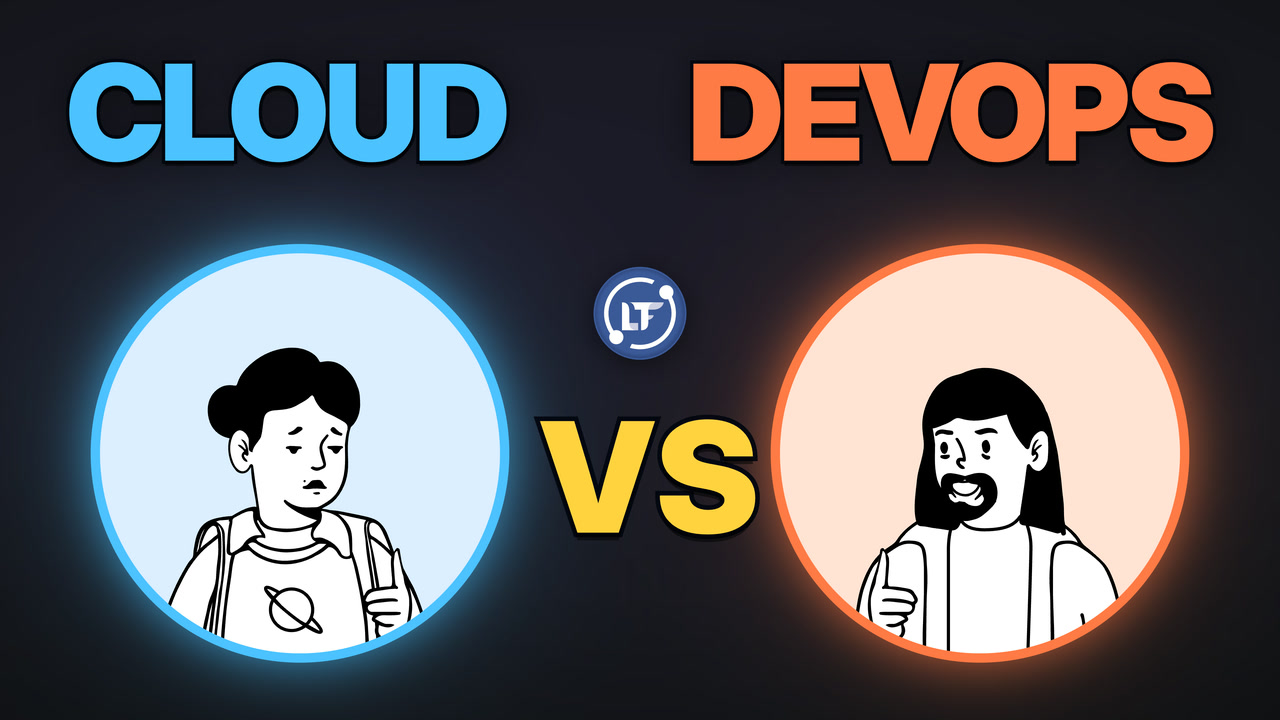
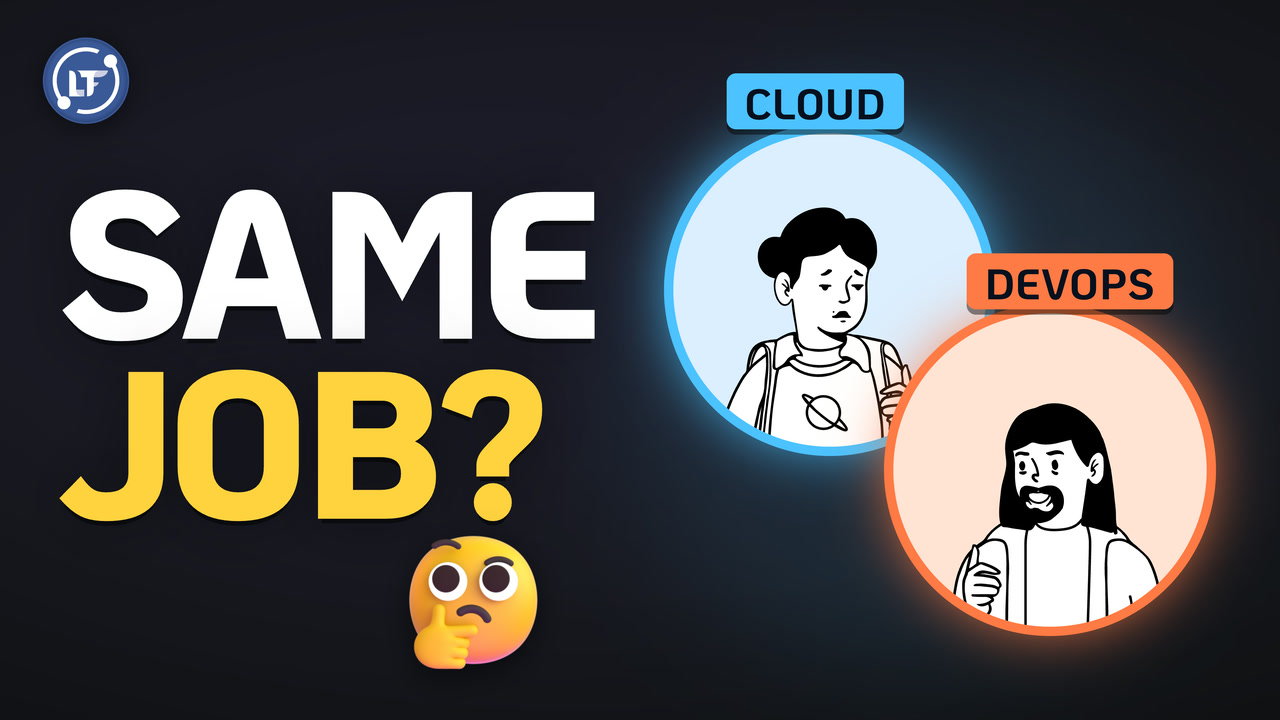
feat: cloud-vs-devops social cuts re-timed with a new end-card thumbnail

diff --git a/projects/cloud-vs-devops/social/index.html b/projects/cloud-vs-devops/social/index.html
@@ -73,6 +73,16 @@
 <script src="../../../core/templates/gap.js"></script>
 <script src="../../../core/templates/wire.js"></script>
 <script src="../../../core/templates/chat.js"></script>
+<script src="../../../core/templates/xray.js"></script>
+<script src="../../../core/templates/bakery.js"></script>
+<script src="../../../core/templates/prep.js"></script>
+<script src="../../../core/templates/trail.js"></script>
+<script src="../../../core/templates/redline.js"></script>
+<script src="../../../core/templates/warehouse.js"></script>
+<script src="../../../core/templates/board.js"></script>
+<script src="../../../core/templates/cafe.js"></script>
+<script src="../../../core/templates/plan.js"></script>
+<script src="../../../core/templates/bistro.js"></script>
 <script src="../../../core/templates/outro.js"></script>
 <!-- core:end -->
 <!-- slides:start (managed by the renderer: every slides/*.js in numeric order) -->

diff --git a/projects/cloud-vs-devops/social/project.js b/projects/cloud-vs-devops/social/project.js
@@ -10,6 +10,7 @@ window.PROJECT = Object.assign({}, window.PROJECT, window.PROJECT && window.PROJ
   title: 'Cloud Engineer vs DevOps Engineer (social cuts)',
   hold: 0,                      // the cut ends on its last word, not on a held frame
   captions: { on: true },       // burned into the text pass; the deck pass renders with --captions off
+  resolution: '4k', fps: 60, crf: 10,   // 2160x3840 at 60fps (YouTube's top bitrate tier), crf 10 on every pass (the user's call, 2026-10-30)
   cta: null, splice: null,      // the audio (voice + effects) comes from the 4K master, spliced intro skipped by cuts.json
 });
 delete window.PROJECT.vertical;   // already applied; core/grid.js must not lay it over this file's settings again
